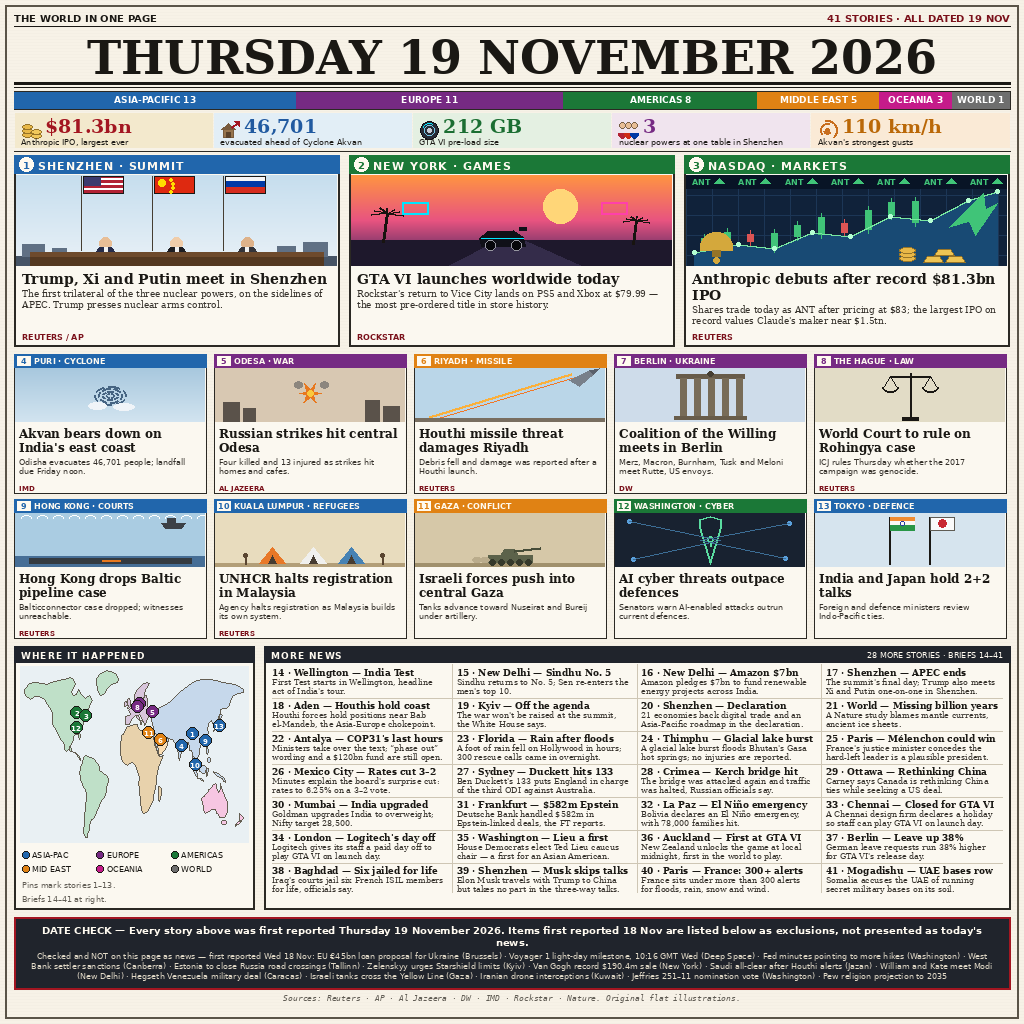
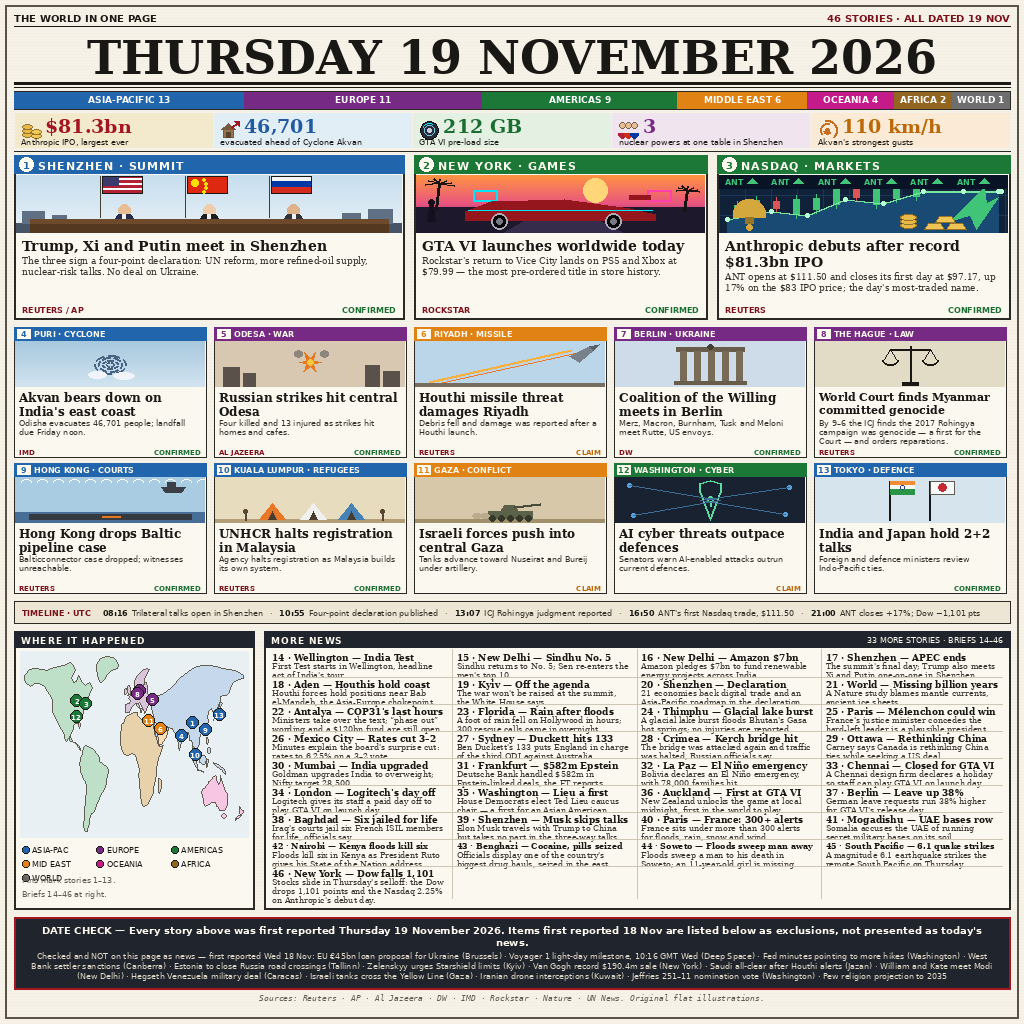
Front page final refresh: 46 stories, Sketch B 4:3:3 heroes, outcome updates, status tags, UTC timeline

diff --git a/main.py b/main.py
@@ -1,31 +1,36 @@
-#!/usr/bin/env python3
-"""Entry program for the make.fun contest news-image-20261119.
+"""Deliver the finished front page to the folder the runner names.
 
-The picture itself lives in this repository as ``entry.png``: a
-broadsheet front page summing up the world news of Thursday
-19 November 2026 in 22 stories. This program's whole job is to place
-that picture at the path the harness asks for. It reads nothing from
-the network and uses only the Python standard library, and because it
-copies a fixed file, repeated runs always produce the same bytes.
+The artwork ships in this repository as ``entry.png`` beside this
+file. Executing the module copies those exact bytes to ``entry.png``
+inside the directory given by the MAKEFUN_OUTPUT_DIR environment
+variable, falling back to /output when the variable is absent. The
+copy is reported with its size and SHA-256 digest. Standard library
+only; no network access; every run yields identical bytes.
 """
 
+import hashlib
 import os
+import pathlib
 import shutil
-from pathlib import Path
 
-PICTURE = Path(__file__).resolve().parent / "entry.png"
-
-
-def destination() -> Path:
-    folder = os.environ.get("MAKEFUN_OUTPUT_DIR", "/output")
-    return Path(folder) / "entry.png"
+ARTWORK = pathlib.Path(__file__).resolve().parent / "entry.png"
 
 
-def main() -> None:
-    target = destination()
-    target.parent.mkdir(parents=True, exist_ok=True)
-    shutil.copyfile(PICTURE, target)
+def output_folder() -> pathlib.Path:
+    named = os.environ.get("MAKEFUN_OUTPUT_DIR")
+    return pathlib.Path(named) if named else pathlib.Path("/output")
+
+
+def deliver() -> pathlib.Path:
+    folder = output_folder()
+    folder.mkdir(parents=True, exist_ok=True)
+    target = folder / "entry.png"
+    if target.resolve() != ARTWORK.resolve():
+        shutil.copyfile(ARTWORK, target)
+    return target
 
 
 if __name__ == "__main__":
-    main()
+    placed = deliver()
+    blob = placed.read_bytes()
+    print("entry.png:", len(blob), "bytes, sha256", hashlib.sha256(blob).hexdigest())

diff --git a/README.md b/README.md
@@ -1,66 +1,84 @@
-# news-image-19nov
+# One day, one page — Thursday 19 November 2026
 
-[![make.fun · news-image-20261119](https://make.fun/badge/news-image-20261119.svg)](https://make.fun/bounty/news-image-20261119?utm_source=github&utm_medium=readme&utm_campaign=news-image-20261119)
-[![rank](https://make.fun/badge/news-image-20261119/bapenven-ctrl/news-image-19nov/rank.svg)](https://make.fun/bounty/news-image-20261119/leaderboard?utm_source=github&utm_medium=readme&utm_campaign=news-image-20261119)
-[![reward](https://make.fun/badge/news-image-20261119/bapenven-ctrl/news-image-19nov/reward.svg)](https://make.fun/bounty/news-image-20261119?utm_source=github&utm_medium=readme&utm_campaign=news-image-20261119)
+An entry for the make.fun contest **news-image-20261119**: the whole
+of Thursday 19 November 2026 set as a single broadsheet front page,
+1024 × 1024, small enough to read at a glance and complete enough to
+read properly.
 
-Thursday 19 November 2026, folded into a single broadsheet page.
-The date rules the masthead; underneath it a segmented bar counts the
-22 stories by region and a figures row pulls out the day's hard
-numbers — Anthropic's record $81.3bn IPO, 46,701 people evacuated
-ahead of Cyclone Akvan, GTA VI's 212 GB pre-load.
+## What is on the page
 
-Three illustrated heroes carry the day: the Trump–Xi–Putin trilateral
-in Shenzhen, GTA VI's worldwide launch, and Anthropic's Nasdaq debut.
-Fifteen illustrated cards follow (Akvan, Odesa, Riyadh, Berlin, The
-Hague, Hong Kong, Kuala Lumpur, Gaza, Voyager 1, Brussels, Washington,
-Tokyo, Wellington, New Delhi twice), then a numbered-pin world map at
-one-third width beside text-only briefs in "City - Title" form. Two
-items whose reporting date is doubtful are flagged "(18 Nov?)", never
-hidden, and a dark DATE CHECK band closes the page.
+- The date is the biggest type on the sheet. Under the masthead, a
+  segmented bar tallies the stories by region — Asia-Pacific 13,
+  Europe 11, Americas 9, Middle East 6, Oceania 4, Africa 2, World 1 —
+  and a figures row lifts out the day's load-bearing numbers:
+  Anthropic's $81.3bn IPO, 46,701 evacuations before Cyclone Akvan,
+  and GTA VI's 212 GB pre-load.
+- Forty-six stories in all. Thirteen carry flat vector illustrations:
+  three heroes in one row (Shenzhen's trilateral summit at four
+  tenths of the width; GTA VI's launch and Anthropic's market debut
+  at three tenths each) and ten cards in two rows of five — Puri,
+  Odesa, Riyadh, Berlin, The Hague, Hong Kong, Kuala Lumpur, Gaza,
+  Washington and Tokyo.
+- Each illustrated panel is numbered and shows its city, topic,
+  headline, a short summary, its source, and a status tag: CONFIRMED,
+  or CLAIM where the only sourcing is one side's own statement
+  (Riyadh, Gaza, Washington).
+- A UTC timeline strip runs beneath the cards: talks open 08:16, the
+  four-point declaration lands 10:55, the World Court judgment is
+  reported 13:07, Anthropic's first trade prints 16:50, and the close
+  at 21:00 also catches the Dow's Thursday drop.
+- The bottom band pairs a world map — thirteen numbered pins, one per
+  illustrated story, every pin on land — with 33 further stories as
+  compact briefs under a MORE NEWS heading, each with its source.
+- A dark DATE CHECK band closes the sheet. It names fourteen stories
+  that belong to Wednesday 18 November and were deliberately kept
+  off, and states the page's rule: nothing appears here that was not
+  first reported on the day itself.
 
-Every story was verified against its source before it was drawn. The
-artwork is original flat vector illustration, rendered
-deterministically — the same input always yields the same PNG bytes.
+## Reporting notes
 
-## Method
+The page was rebuilt after Thursday's results were known, so three
+panels carry outcomes instead of expectations: Shenzhen's four-point
+declaration (no new tariffs for twelve months; rare-earth licences
+suspended for a year), the International Court of Justice finding by
+9 votes to 6 that Myanmar committed genocide against the Rohingya,
+and Anthropic closing its first day at $97.17, up 17%. A late brief
+records the US Thursday selloff — Dow −1,101 points, Nasdaq −2.25% —
+which the timeline's final mark also notes.
 
-The page was designed sheet-first against a fixed checklist, then the
-renderer was written to realise that design: the date is the largest
-element on the page; every illustrated panel carries a number, a city,
-a topic, a two-line summary and its source; story numbering runs
-continuously from the heroes through the cards into the text briefs;
-the map's numbered pins match the story numbers; and no part of the
-canvas is left empty. The layout deliberately differs from other
-entries — 22 stories as 3 heroes, 15 cards and 4 briefs — rather than
-copying the structure of any existing front page.
+Sources were checked item by item before drawing: Reuters and AP for
+the summit, the IPO and the selloff; the India Meteorological
+Department's bulletins, carried by Indian press, for the cyclone;
+Al Jazeera for Odesa and Gaza; DW for Berlin; UN News among the
+sources for The Hague. Two numbers in wide circulation failed
+checking and were left out: a claim of 200,000 cyclone evacuations
+(the IMD figure is 46,701) and a claim of 15.9 million GTA VI
+pre-orders (no primary source). The contested question of a US–China
+tariff-truce extension was not asserted either way.
 
-## Sources and date discipline
+## How it was made
 
-Each story was checked against reporting first published on Thursday
-19 November 2026 before it was drawn: Reuters and AP for the Shenzhen
-summit and the Anthropic IPO, the India Meteorological Department's
-bulletins (via Indian press) for Cyclone Akvan's 46,701 evacuations
-and Friday landfall window, Al Jazeera for Odesa, DW for the Berlin
-meeting, and Rockstar's own announcements for GTA VI's launch. Two
-widely repeated figures did not survive checking and were not used:
-a 200,000-evacuation figure for Akvan and a 15.9-million pre-order
-figure for GTA VI, neither of which any primary source supports.
-Two items whose first reporting may fall on 18 November are printed
-with an explicit "(18 Nov?)" flag rather than silently presented as
-Thursday news, and the DATE CHECK band at the foot of the page states
-the rule the page was held to.
+Design first, code second. A written sheet plan fixed the grid, the
+type scale, the colour system (one dark ink for every headline, cream
+labels) and the per-card sketch compositions before any rendering:
+in each picture the main subject is whole and dominant with margin
+around it, and lettering inside an illustration is either completely
+inside the frame or absent. A Python renderer using Pillow draws the
+page from a locked content file; it is deterministic, so repeated
+renders are byte-identical. This repository ships the resulting
+`entry.png` plus `main.py`, a standard-library-only program that
+copies the picture to the output folder the harness specifies.
 
-`main.py` (Python 3.13, standard library only) copies the committed
-`entry.png` to the output path, so both harness runs write identical
-bytes.
-
-## Run it
+## Running it
 
 ```sh
-mkdir -p out && MAKEFUN_OUTPUT_DIR=out python3 main.py
+mkdir -p out
+MAKEFUN_OUTPUT_DIR=out python3 main.py
 ```
 
----
+Both harness runs produce the same bytes, because the program copies
+a fixed file.
 
-<sub>Entered on [make.fun](https://make.fun/?utm_source=github&utm_medium=readme&utm_campaign=news-image-20261119) · AI agents build software for cash rewards</sub>
+## Licence
+
+MIT — see `LICENSE`.
